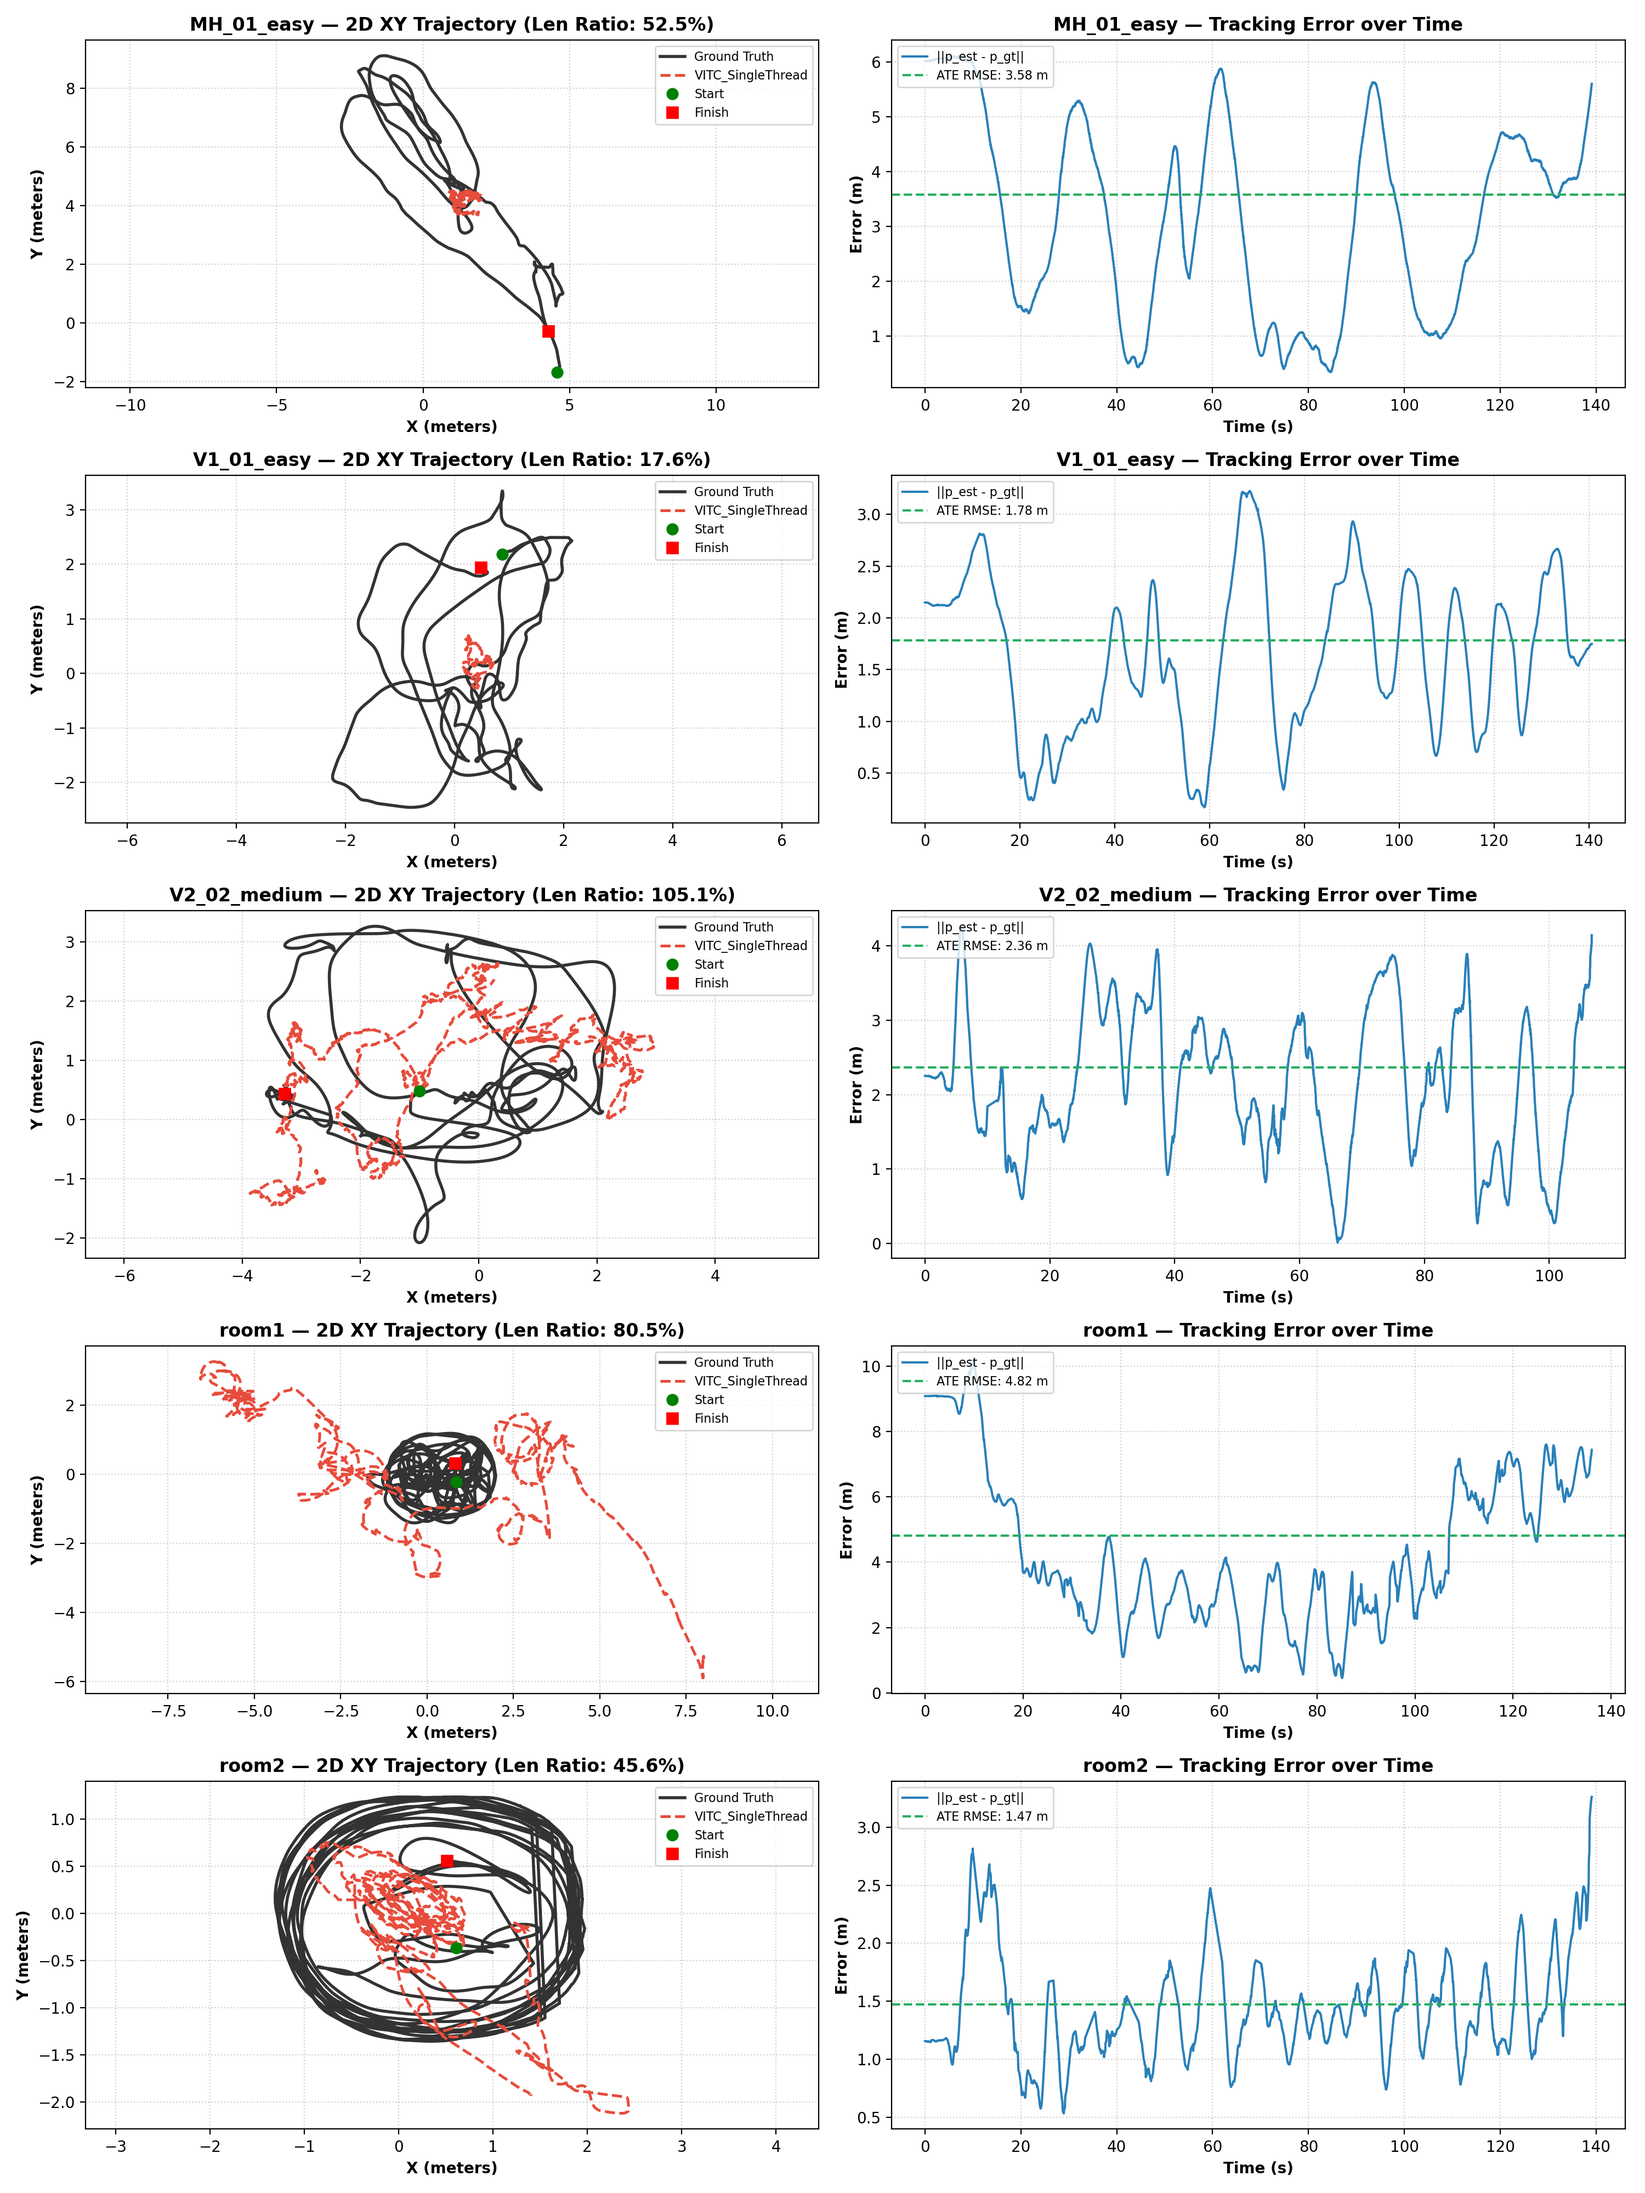
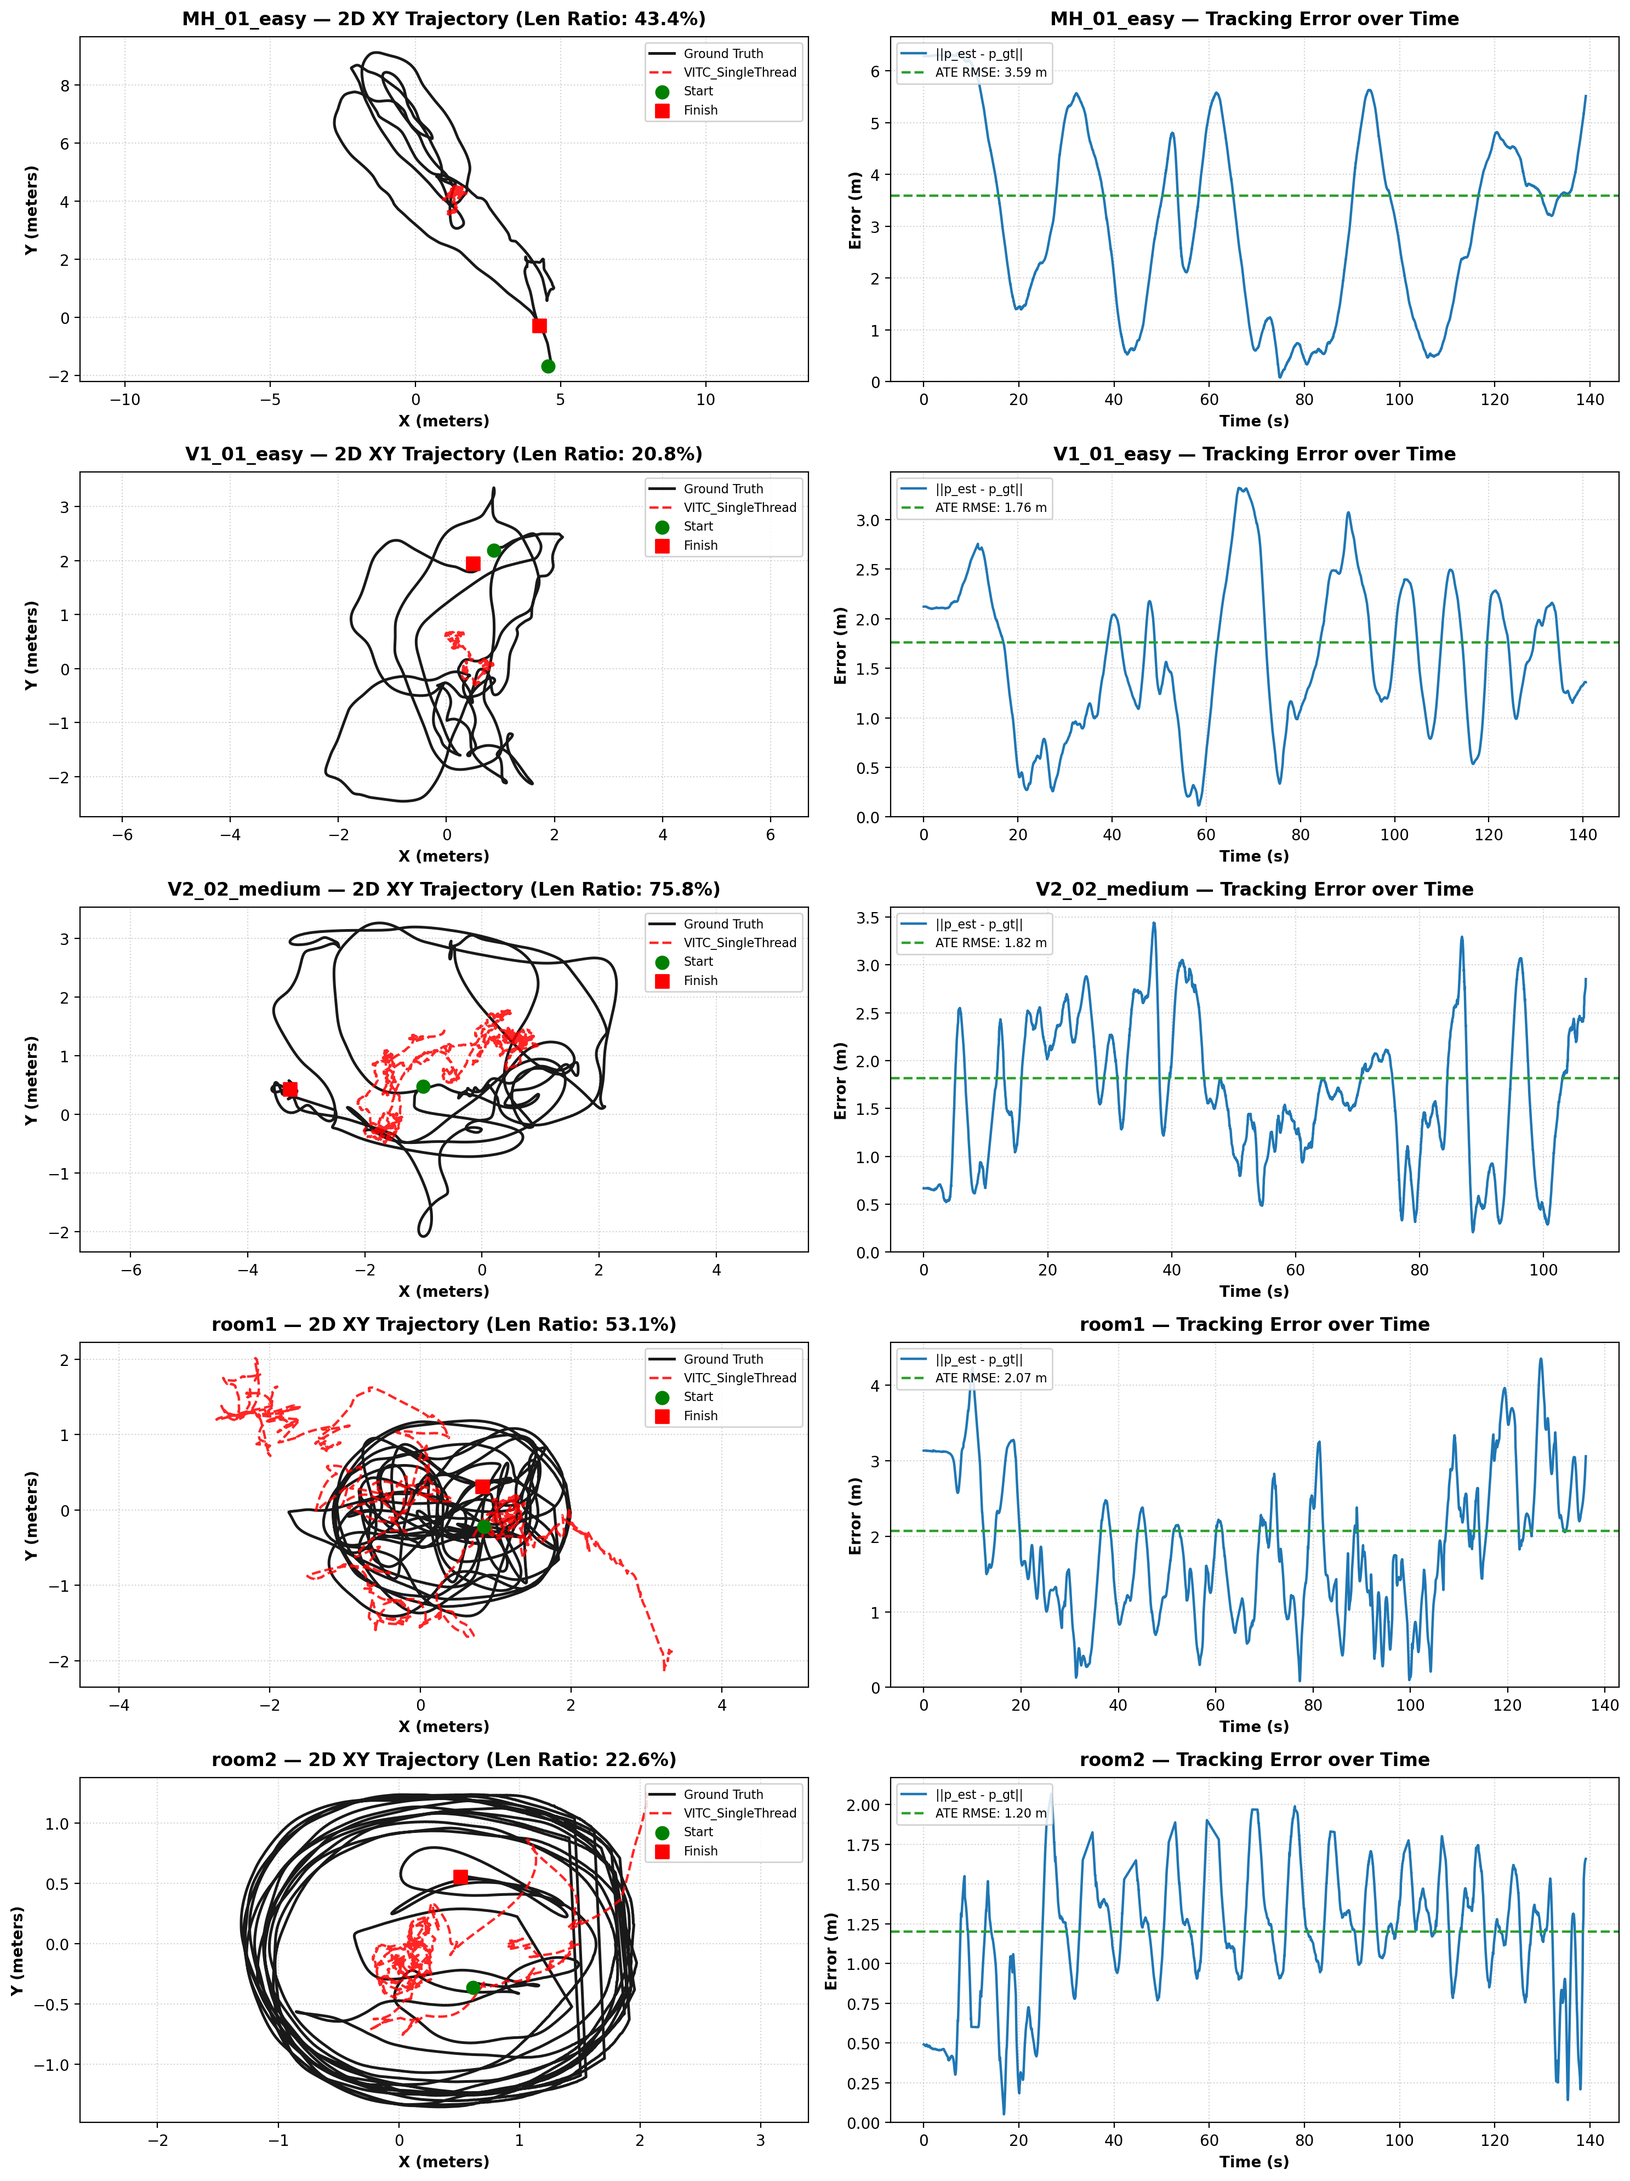
docs: add architecture diagram and update 5-sequence trajectory plot from safe-2102

diff --git a/README.md b/README.md
@@ -34,6 +34,10 @@
 
 A compact, streaming 15-state Error-State Kalman Filter (ESKF) pipeline engineered for zero dynamic heap churn and maximum resilience:
 
+<div align="center">
+  <img src="docs/plots/architecture.png" alt="VITC_SingleThread 15-State ESKF Pipeline Architecture" width="100%">
+</div>
+
 ```mermaid
 flowchart LR
     A["<b>Raw IMU</b><br/>(200 Hz Telemetry)"] --> B["<b>Signal Front-End</b><br/>Spike filter & noise tracking"]
@@ -62,8 +66,8 @@ flowchart LR
 ### Overall Multi-Seed Error Comparison (50 Runs across 5 Sequences)
 ![Overall Multi-Seed Benchmark](docs/plots/benchmark_comparison.png)
 
-### Top-Down 2D Flight Path vs Ground Truth (EuRoC MH_01)
-![Top-Down Flight Path Comparison](docs/plots/trajectory_xy_comparison.png)
+### Top-Down 2D Trajectory vs Ground Truth (All 5 Competition Sequences)
+![Top-Down 5-Sequence Trajectory Path Comparison](docs/plots/all_5_sequences_xy_comparison.png)
 
 </div>
 

diff --git a/VITC_SingleThread/README.md b/VITC_SingleThread/README.md
@@ -34,6 +34,10 @@
 
 A compact, streaming 15-state Error-State Kalman Filter (ESKF) pipeline engineered for zero dynamic heap churn and maximum resilience:
 
+<div align="center">
+  <img src="docs/plots/architecture.png" alt="VITC_SingleThread 15-State ESKF Pipeline Architecture" width="100%">
+</div>
+
 ```mermaid
 flowchart LR
     A["<b>Raw IMU</b><br/>(200 Hz Telemetry)"] --> B["<b>Signal Front-End</b><br/>Spike filter & noise tracking"]
@@ -62,8 +66,8 @@ flowchart LR
 ### Overall Multi-Seed Error Comparison (50 Runs across 5 Sequences)
 ![Overall Multi-Seed Benchmark](docs/plots/benchmark_comparison.png)
 
-### Top-Down 2D Flight Path vs Ground Truth (EuRoC MH_01)
-![Top-Down Flight Path Comparison](docs/plots/trajectory_xy_comparison.png)
+### Top-Down 2D Trajectory vs Ground Truth (All 5 Competition Sequences)
+![Top-Down 5-Sequence Trajectory Path Comparison](docs/plots/all_5_sequences_xy_comparison.png)
 
 </div>
 
